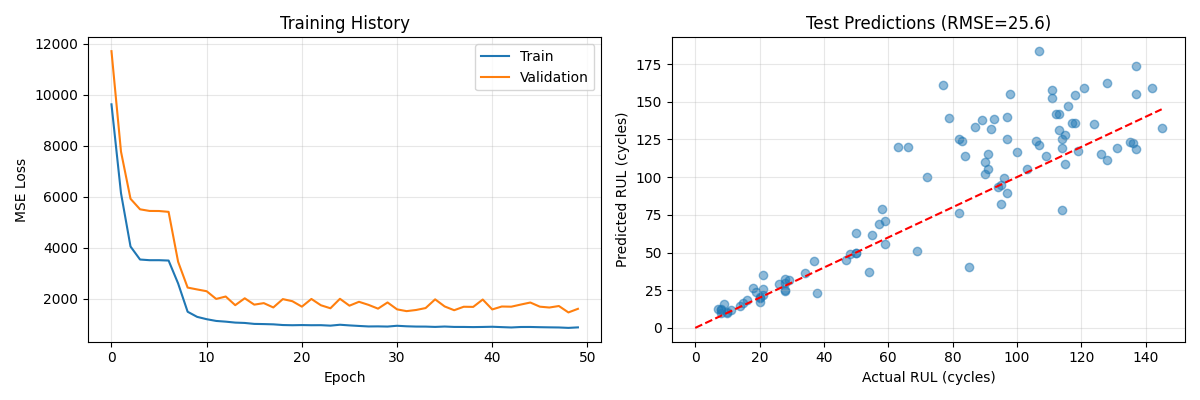
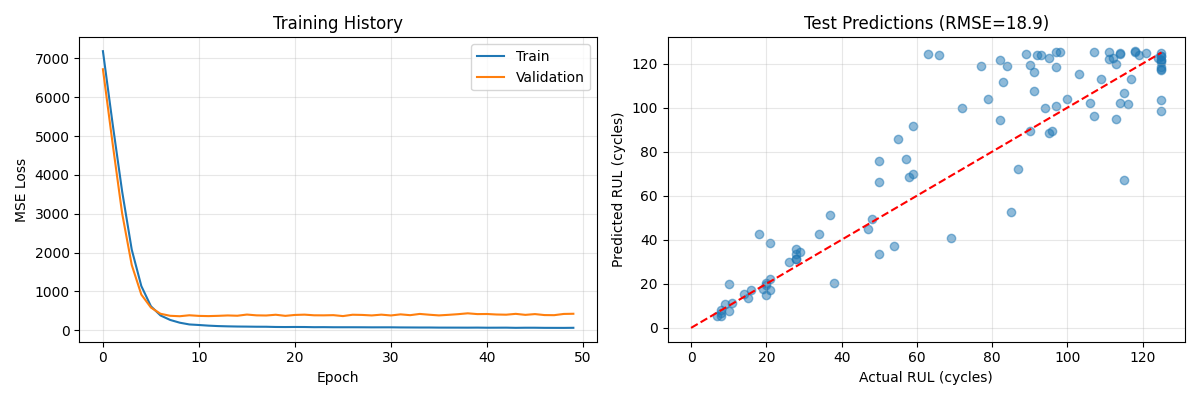
feat(training): ajout d’un benchmark multi-modèles et d’un pipeline LSTM avancé
- Ajout d’une architecture Bidirectional LSTM
- Ajout des callbacks EarlyStopping et ReduceLROnPlateau
- Ajout des métriques RMSE, MAE, R² et NASA Score
- Ajout d’un modèle benchmark Random Forest
- Ajout du support XGBoost pour le benchmark
- Ajout des visualisations de benchmark et export JSON
- Amélioration de la robustesse de l’entraînement et du pipeline d’évaluation

diff --git a/src/03_train_model.py b/src/03_train_model.py
@@ -1,73 +1,313 @@
-import numpy as np
+"""
+03_train_model.py
+==================
+Multi-Model Benchmark — NASA C-MAPSS FD001
+Author : Jean-Jonathan KOFFI
+
+Models trained and compared:
+  1. LSTM (Bidirectional) — deep learning baseline
+  2. XGBoost Regressor    — gradient boosting on flattened sequences
+  3. Random Forest        — ensemble baseline
+
+Metrics:
+  - RMSE (Root Mean Squared Error)
+  - MAE  (Mean Absolute Error)
+  - NASA Scoring Function (asymmetric — penalises late predictions more)
+  - R²   (Coefficient of determination)
+
+Outputs:
+  - data/models/lstm_model.keras
+  - data/models/xgboost_model.pkl
+  - data/models/rf_model.pkl
+  - data/models/benchmark_results.json
+  - data/models/benchmark_plot.png
+"""
+
 import os
-from tensorflow import keras
-from tensorflow.keras import layers
-from sklearn.metrics import mean_squared_error
+import json
+import time
+import numpy as np
 import matplotlib.pyplot as plt
+import matplotlib.gridspec as gridspec
+from sklearn.metrics import mean_squared_error, mean_absolute_error, r2_score
+from sklearn.ensemble import RandomForestRegressor
+import joblib
 
-DATA_PATH = os.path.join(os.path.dirname(__file__), '..', 'data', 'processed')
-OUTPUT_PATH = os.path.join(os.path.dirname(__file__), '..', 'data', 'models')
-os.makedirs(OUTPUT_PATH, exist_ok=True)
+# ─── Paths ────────────────────────────────────────────────────────────────────
+BASE_DIR    = os.path.join(os.path.dirname(__file__), '..')
+DATA_PATH   = os.path.join(BASE_DIR, 'data', 'processed')
+MODEL_PATH  = os.path.join(BASE_DIR, 'data', 'models')
+os.makedirs(MODEL_PATH, exist_ok=True)
 
-# Load preprocessed data
+# ─── Load data ────────────────────────────────────────────────────────────────
+print("Loading preprocessed data...")
 X_train = np.load(os.path.join(DATA_PATH, 'X_train.npy'))
 y_train = np.load(os.path.join(DATA_PATH, 'y_train.npy'))
-X_test = np.load(os.path.join(DATA_PATH, 'X_test.npy'))
-y_test = np.load(os.path.join(DATA_PATH, 'y_test.npy'))
+X_val   = np.load(os.path.join(DATA_PATH, 'X_val.npy'))
+y_val   = np.load(os.path.join(DATA_PATH, 'y_val.npy'))
+X_test  = np.load(os.path.join(DATA_PATH, 'X_test.npy'))
+y_test  = np.load(os.path.join(DATA_PATH, 'y_test.npy'))
 
-print(f"X_train: {X_train.shape}")
-print(f"y_train: {y_train.shape}")
-print(f"X_test: {X_test.shape}")
-print(f"y_test: {y_test.shape}")
+print(f"  X_train {X_train.shape} | X_val {X_val.shape} | X_test {X_test.shape}")
 
-model = keras.Sequential([
-    layers.LSTM(64, input_shape=(X_train.shape[1], X_train.shape[2]), return_sequences=True),
-    layers.Dropout(0.2),
-    layers.LSTM(32, return_sequences=False),
-    layers.Dropout(0.2),
-    layers.Dense(16, activation='relu'),
-    layers.Dense(1)
-])
+N_TIMESTEPS = X_train.shape[1]
+N_FEATURES  = X_train.shape[2]
 
-model.compile(optimizer='adam', loss='mse', metrics=['mae'])
-model.summary()
+# ─── NASA Scoring Function ────────────────────────────────────────────────────
+def nasa_score(y_true, y_pred):
+    """
+    Asymmetric scoring function from the PHM08 challenge.
+    Penalises late predictions (predicted RUL > actual) more than early ones.
+    Lower is better. Score = sum(exp(d/13) - 1  if d < 0
+                                  exp(d/10) - 1  if d >= 0)
+    where d = y_pred - y_true
+    """
+    d = y_pred - y_true
+    scores = np.where(d < 0, np.exp(-d / 13) - 1, np.exp(d / 10) - 1)
+    return float(np.sum(scores))
 
-history = model.fit(
+def compute_metrics(y_true, y_pred, label=""):
+    rmse  = float(np.sqrt(mean_squared_error(y_true, y_pred)))
+    mae   = float(mean_absolute_error(y_true, y_pred))
+    r2    = float(r2_score(y_true, y_pred))
+    score = nasa_score(y_true, y_pred)
+    if label:
+        print(f"  [{label}] RMSE={rmse:.2f} | MAE={mae:.2f} | R²={r2:.3f} | NASA Score={score:.0f}")
+    return {'rmse': rmse, 'mae': mae, 'r2': r2, 'nasa_score': score}
+
+# ─── Flatten helper for non-sequential models ─────────────────────────────────
+def flatten(X):
+    return X.reshape(X.shape[0], -1)
+
+# ─── 1. LSTM (Bidirectional) ──────────────────────────────────────────────────
+print("\n" + "="*55)
+print("  MODEL 1 : Bidirectional LSTM")
+print("="*55)
+
+from tensorflow import keras
+from tensorflow.keras import layers
+from tensorflow.keras.callbacks import EarlyStopping, ReduceLROnPlateau
+
+def build_lstm(n_timesteps, n_features):
+    inp = keras.Input(shape=(n_timesteps, n_features))
+    x   = layers.Bidirectional(layers.LSTM(64, return_sequences=True))(inp)
+    x   = layers.Dropout(0.2)(x)
+    x   = layers.Bidirectional(layers.LSTM(32, return_sequences=False))(x)
+    x   = layers.Dropout(0.2)(x)
+    x   = layers.Dense(32, activation='relu')(x)
+    x   = layers.Dense(16, activation='relu')(x)
+    out = layers.Dense(1)(x)
+    model = keras.Model(inp, out)
+    model.compile(optimizer=keras.optimizers.Adam(1e-3), loss='mse', metrics=['mae'])
+    return model
+
+lstm_model = build_lstm(N_TIMESTEPS, N_FEATURES)
+lstm_model.summary()
+
+callbacks = [
+    EarlyStopping(patience=10, restore_best_weights=True, monitor='val_loss'),
+    ReduceLROnPlateau(factor=0.5, patience=5, min_lr=1e-5, monitor='val_loss')
+]
+
+t0 = time.time()
+history = lstm_model.fit(
     X_train, y_train,
-    validation_split=0.2,
-    epochs=50,
+    validation_data=(X_val, y_val),
+    epochs=100,
     batch_size=128,
+    callbacks=callbacks,
+    verbose=1
+)
+lstm_time = time.time() - t0
+
+lstm_model.save(os.path.join(MODEL_PATH, 'lstm_model.keras'))
+lstm_pred_test  = lstm_model.predict(X_test).flatten()
+lstm_pred_train = lstm_model.predict(X_train).flatten()
+
+print("\nLSTM Results:")
+lstm_train_metrics = compute_metrics(y_train, lstm_pred_train, "Train")
+lstm_test_metrics  = compute_metrics(y_test,  lstm_pred_test,  "Test ")
+
+# ─── 2. XGBoost ───────────────────────────────────────────────────────────────
+print("\n" + "="*55)
+print("  MODEL 2 : XGBoost Regressor")
+print("="*55)
+
+try:
+    import xgboost as xgb
+    HAS_XGBOOST = True
+except ImportError:
+    print("  XGBoost not installed — skipping (pip install xgboost)")
+    HAS_XGBOOST = False
+
+if HAS_XGBOOST:
+    X_train_flat = flatten(X_train)
+    X_val_flat   = flatten(X_val)
+    X_test_flat  = flatten(X_test)
+
+    xgb_model = xgb.XGBRegressor(
+        n_estimators=500,
+        max_depth=6,
+        learning_rate=0.05,
+        subsample=0.8,
+        colsample_bytree=0.8,
+        random_state=42,
+        n_jobs=-1,
+        early_stopping_rounds=20,
+        eval_metric='rmse',
+        verbosity=1,
+    )
+
+    t0 = time.time()
+    xgb_model.fit(X_train_flat, y_train,
+                  eval_set=[(X_val_flat, y_val)],
+                  verbose=50)
+    xgb_time = time.time() - t0
+
+    joblib.dump(xgb_model, os.path.join(MODEL_PATH, 'xgboost_model.pkl'))
+    xgb_pred_test  = xgb_model.predict(X_test_flat)
+    xgb_pred_train = xgb_model.predict(X_train_flat)
+
+    print("\nXGBoost Results:")
+    xgb_train_metrics = compute_metrics(y_train, xgb_pred_train, "Train")
+    xgb_test_metrics  = compute_metrics(y_test,  xgb_pred_test,  "Test ")
+else:
+    xgb_test_metrics = None; xgb_pred_test = None; xgb_time = 0
+
+# ─── 3. Random Forest ─────────────────────────────────────────────────────────
+print("\n" + "="*55)
+print("  MODEL 3 : Random Forest Regressor")
+print("="*55)
+
+X_train_flat = flatten(X_train)
+X_test_flat  = flatten(X_test)
+
+rf_model = RandomForestRegressor(
+    n_estimators=200,
+    max_depth=20,
+    min_samples_split=5,
+    random_state=42,
+    n_jobs=-1,
     verbose=1
 )
 
-model.save(os.path.join(OUTPUT_PATH, 'lstm_model.keras'))
+t0 = time.time()
+rf_model.fit(X_train_flat, y_train)
+rf_time = time.time() - t0
 
-y_pred_train = model.predict(X_train).flatten()
-y_pred_test = model.predict(X_test).flatten()
-rmse_train = np.sqrt(mean_squared_error(y_train, y_pred_train))
-rmse_test = np.sqrt(mean_squared_error(y_test, y_pred_test))
+joblib.dump(rf_model, os.path.join(MODEL_PATH, 'rf_model.pkl'))
+rf_pred_test  = rf_model.predict(X_test_flat)
+rf_pred_train = rf_model.predict(X_train_flat)
 
-print(f"\nTrain RMSE: {rmse_train:.2f} cycles")
-print(f"Test RMSE: {rmse_test:.2f} cycles")
+print("\nRandom Forest Results:")
+rf_train_metrics = compute_metrics(y_train, rf_pred_train, "Train")
+rf_test_metrics  = compute_metrics(y_test,  rf_pred_test,  "Test ")
 
-plt.figure(figsize=(12, 4))
+# ─── 4. Benchmark Summary Plot ────────────────────────────────────────────────
+print("\n" + "="*55)
+print("  BENCHMARK COMPARISON")
+print("="*55)
 
-plt.subplot(1, 2, 1)
-plt.plot(history.history['loss'], label='Train')
-plt.plot(history.history['val_loss'], label='Validation')
-plt.xlabel('Epoch')
-plt.ylabel('MSE Loss')
-plt.title('Training History')
-plt.legend()
-plt.grid(True, alpha=0.3)
+models_data = {'LSTM (BiDir)': (lstm_test_metrics, lstm_pred_test, lstm_time)}
+if HAS_XGBOOST and xgb_test_metrics:
+    models_data['XGBoost'] = (xgb_test_metrics, xgb_pred_test, xgb_time)
+models_data['Random Forest'] = (rf_test_metrics, rf_pred_test, rf_time)
 
-plt.subplot(1, 2, 2)
-plt.scatter(y_test, y_pred_test, alpha=0.5)
-plt.plot([0, y_test.max()], [0, y_test.max()], 'r--')
-plt.xlabel('Actual RUL (cycles)')
-plt.ylabel('Predicted RUL (cycles)')
-plt.title(f'Test Predictions (RMSE={rmse_test:.1f})')
-plt.grid(True, alpha=0.3)
+model_names = list(models_data.keys())
+rmses  = [models_data[m][0]['rmse']  for m in model_names]
+maes   = [models_data[m][0]['mae']   for m in model_names]
+r2s    = [models_data[m][0]['r2']    for m in model_names]
+scores = [models_data[m][0]['nasa_score'] for m in model_names]
+preds  = [models_data[m][1] for m in model_names]
+times  = [models_data[m][2] for m in model_names]
 
-plt.tight_layout()
-plt.savefig(os.path.join(OUTPUT_PATH, 'training_results.png'), dpi=100)
+colors = ['#2196F3', '#FF9800', '#4CAF50'][:len(model_names)]
+
+fig = plt.figure(figsize=(18, 12))
+gs  = gridspec.GridSpec(3, 3, figure=fig, hspace=0.45, wspace=0.35)
+
+# RMSE
+ax1 = fig.add_subplot(gs[0, 0])
+ax1.bar(model_names, rmses, color=colors, edgecolor='white', linewidth=1.5)
+ax1.set_title('RMSE (lower=better)', fontweight='bold')
+ax1.set_ylabel('cycles')
+for i, v in enumerate(rmses): ax1.text(i, v+0.3, f'{v:.1f}', ha='center', fontsize=9)
+
+# MAE
+ax2 = fig.add_subplot(gs[0, 1])
+ax2.bar(model_names, maes, color=colors, edgecolor='white', linewidth=1.5)
+ax2.set_title('MAE (lower=better)', fontweight='bold')
+ax2.set_ylabel('cycles')
+for i, v in enumerate(maes): ax2.text(i, v+0.3, f'{v:.1f}', ha='center', fontsize=9)
+
+# R²
+ax3 = fig.add_subplot(gs[0, 2])
+ax3.bar(model_names, r2s, color=colors, edgecolor='white', linewidth=1.5)
+ax3.set_title('R² (higher=better)', fontweight='bold')
+ax3.set_ylabel('R²')
+ax3.set_ylim([0, 1])
+for i, v in enumerate(r2s): ax3.text(i, v+0.01, f'{v:.3f}', ha='center', fontsize=9)
+
+# NASA Score
+ax4 = fig.add_subplot(gs[1, 0])
+ax4.bar(model_names, scores, color=colors, edgecolor='white', linewidth=1.5)
+ax4.set_title('NASA PHM Score (lower=better)', fontweight='bold')
+ax4.set_ylabel('Score')
+for i, v in enumerate(scores): ax4.text(i, v, f'{v:.0f}', ha='center', va='bottom', fontsize=9)
+
+# Training time
+ax5 = fig.add_subplot(gs[1, 1])
+ax5.bar(model_names, times, color=colors, edgecolor='white', linewidth=1.5)
+ax5.set_title('Training Time (s)', fontweight='bold')
+ax5.set_ylabel('seconds')
+for i, v in enumerate(times): ax5.text(i, v+0.5, f'{v:.0f}s', ha='center', fontsize=9)
+
+# Scatter plots: actual vs predicted
+for col, (name, pred) in enumerate(zip(model_names, preds)):
+    ax = fig.add_subplot(gs[2, col]) if col < 3 else None
+    if ax is None: continue
+    max_val = max(y_test.max(), pred.max())
+    ax.scatter(y_test, pred, alpha=0.4, s=10, color=colors[col])
+    ax.plot([0, max_val], [0, max_val], 'r--', linewidth=1.5, label='Perfect')
+    ax.set_xlabel('Actual RUL')
+    ax.set_ylabel('Predicted RUL')
+    ax.set_title(f'{name} — Actual vs Predicted')
+    ax.legend(fontsize=7)
+
+# LSTM training history (replace time bar with history)
+ax5b = fig.add_subplot(gs[1, 2])
+ax5b.plot(history.history['loss'],     label='Train Loss', color='steelblue')
+ax5b.plot(history.history['val_loss'], label='Val Loss',   color='tomato', linestyle='--')
+ax5b.set_title('LSTM Training History', fontweight='bold')
+ax5b.set_xlabel('Epoch')
+ax5b.set_ylabel('MSE Loss')
+ax5b.legend(fontsize=8)
+ax5b.grid(True, alpha=0.3)
+
+fig.suptitle('Model Benchmark — NASA C-MAPSS FD001 (RUL Prediction)', fontsize=14, fontweight='bold')
+plt.savefig(os.path.join(MODEL_PATH, 'benchmark_plot.png'), dpi=130, bbox_inches='tight')
+plt.close()
+print("[✓] benchmark_plot.png saved")
+
+# ─── Save benchmark JSON ──────────────────────────────────────────────────────
+benchmark = {}
+for name, (metrics, pred, t) in models_data.items():
+    benchmark[name] = {**metrics, 'training_time_sec': round(t, 1)}
+
+with open(os.path.join(MODEL_PATH, 'benchmark_results.json'), 'w') as f:
+    json.dump(benchmark, f, indent=2)
+
+# Save all predictions
+np.save(os.path.join(MODEL_PATH, 'lstm_pred_test.npy'),  lstm_pred_test)
+np.save(os.path.join(MODEL_PATH, 'rf_pred_test.npy'),    rf_pred_test)
+if HAS_XGBOOST and xgb_pred_test is not None:
+    np.save(os.path.join(MODEL_PATH, 'xgb_pred_test.npy'), xgb_pred_test)
+
+print("\n" + "="*55)
+print("  FINAL BENCHMARK SUMMARY (TEST SET)")
+print("="*55)
+print(f"  {'Model':<20} {'RMSE':>8} {'MAE':>8} {'R²':>8} {'NASA':>10}")
+print(f"  {'-'*56}")
+for name, (m, _, t) in models_data.items():
+    print(f"  {name:<20} {m['rmse']:>8.2f} {m['mae']:>8.2f} {m['r2']:>8.3f} {m['nasa_score']:>10.0f}")
+print("="*55)